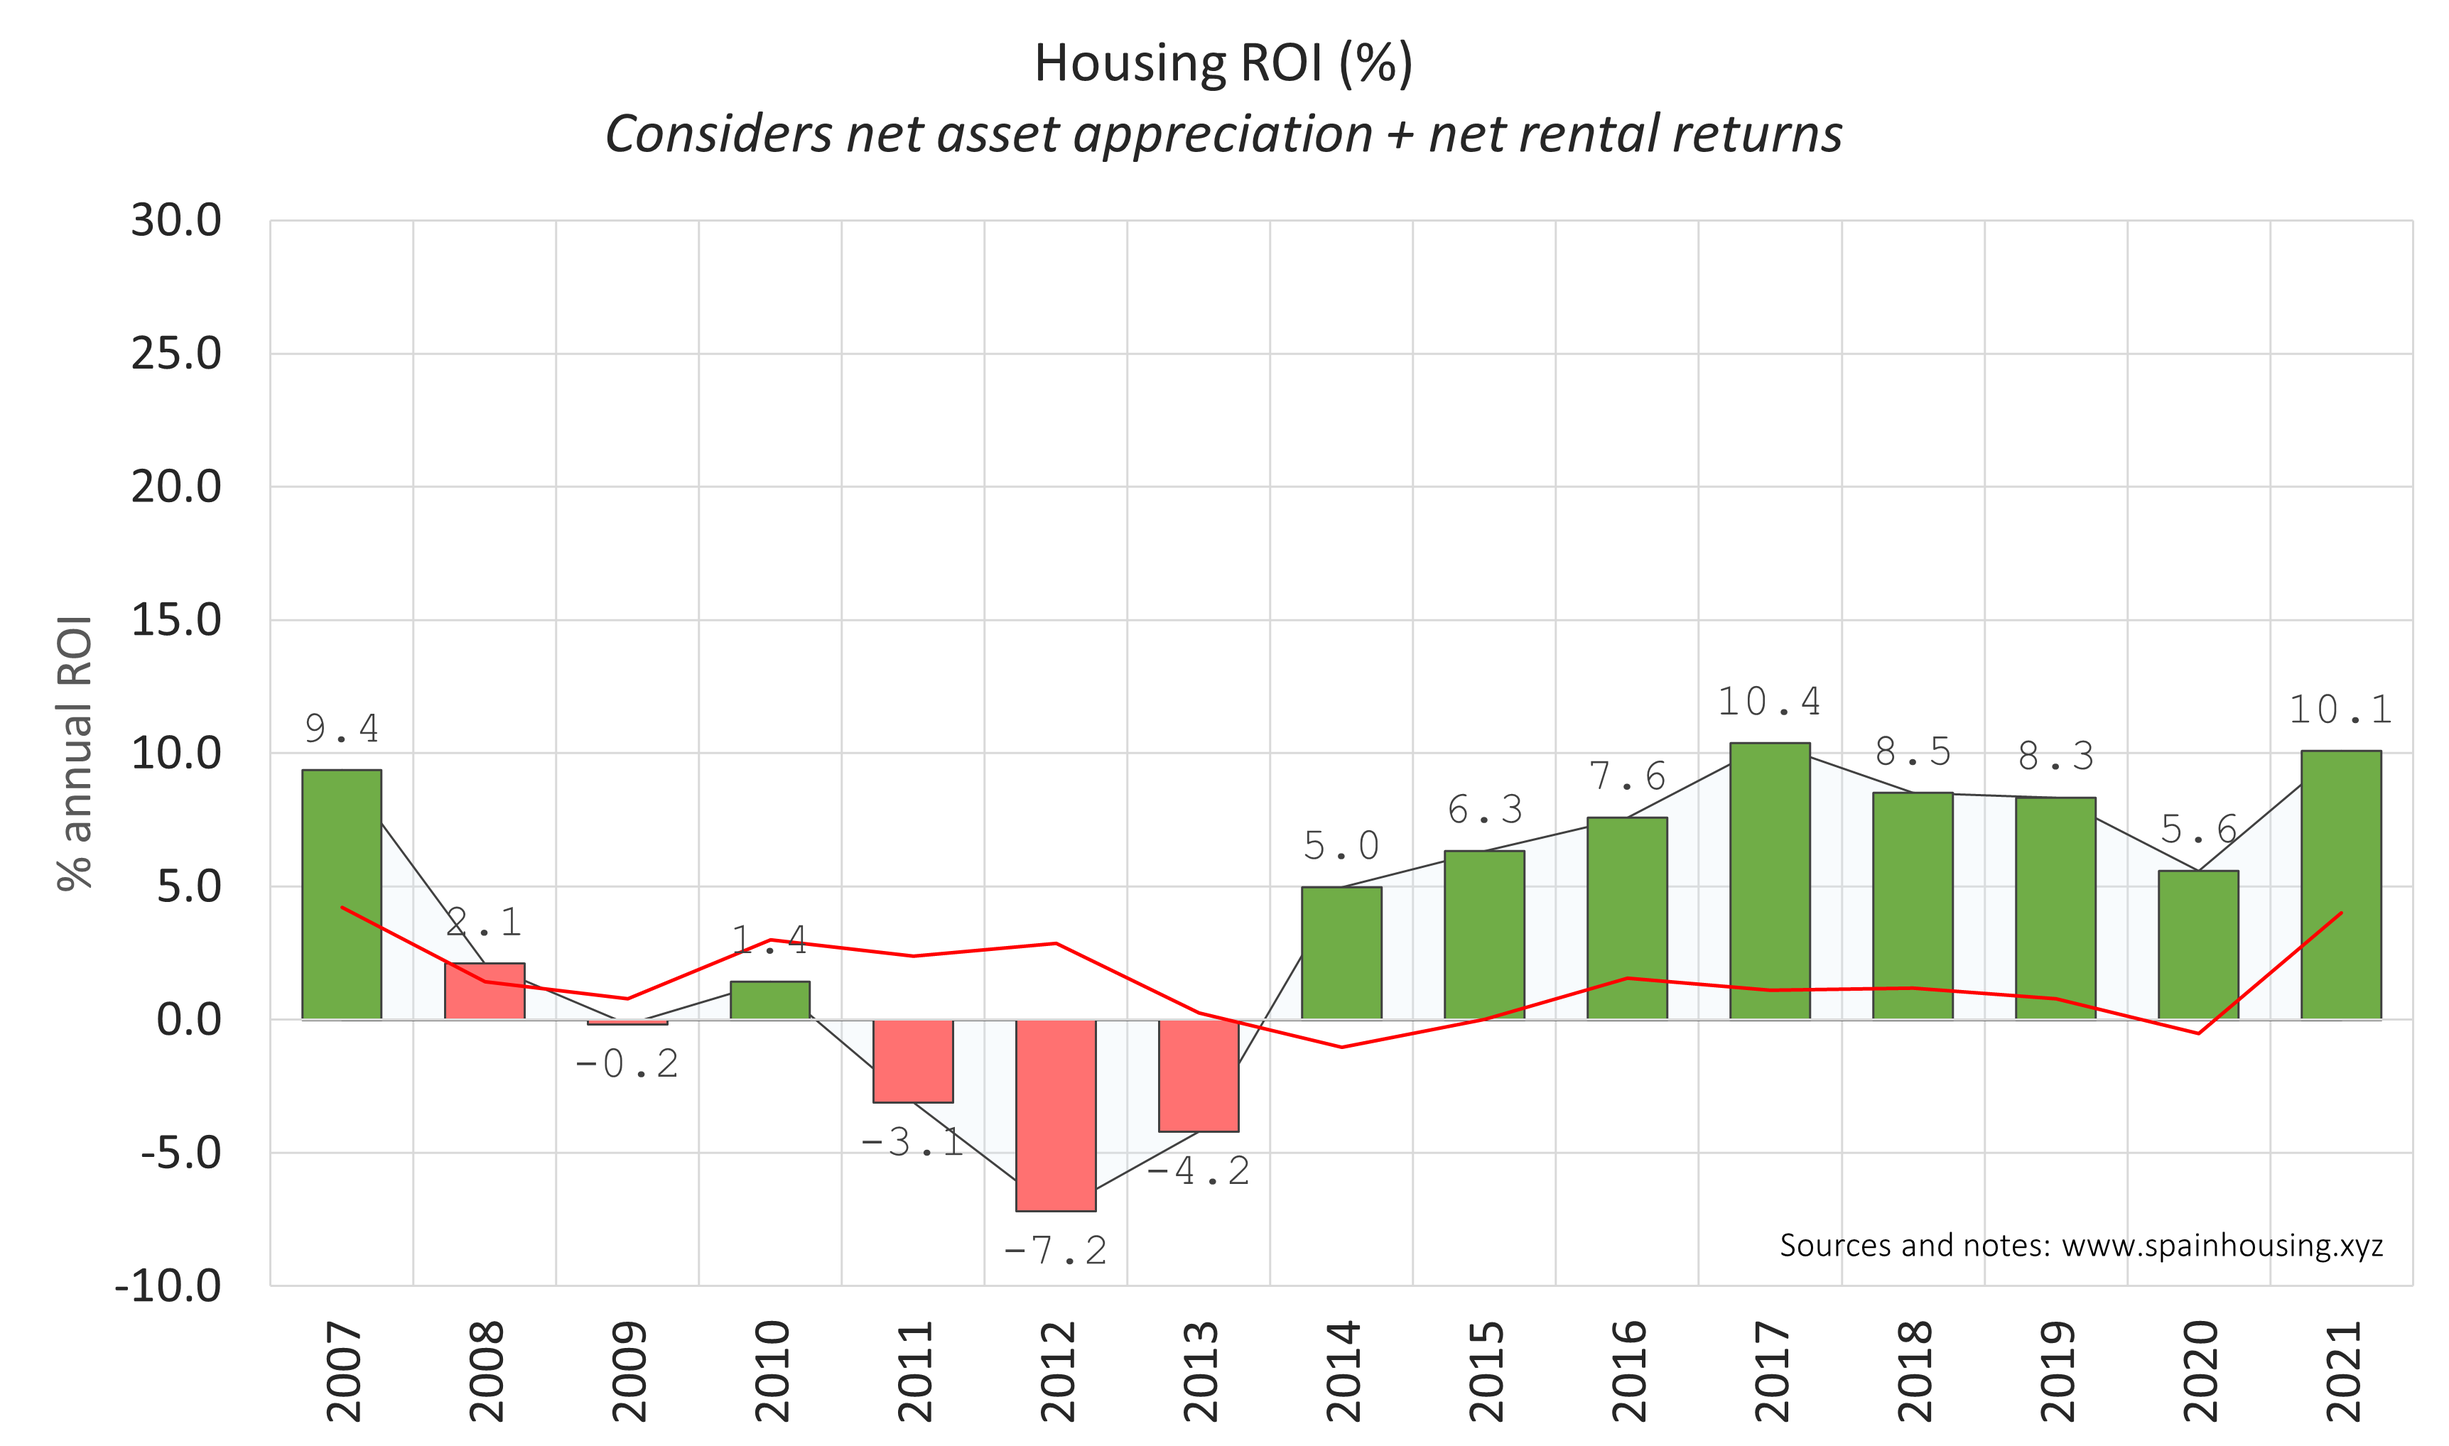
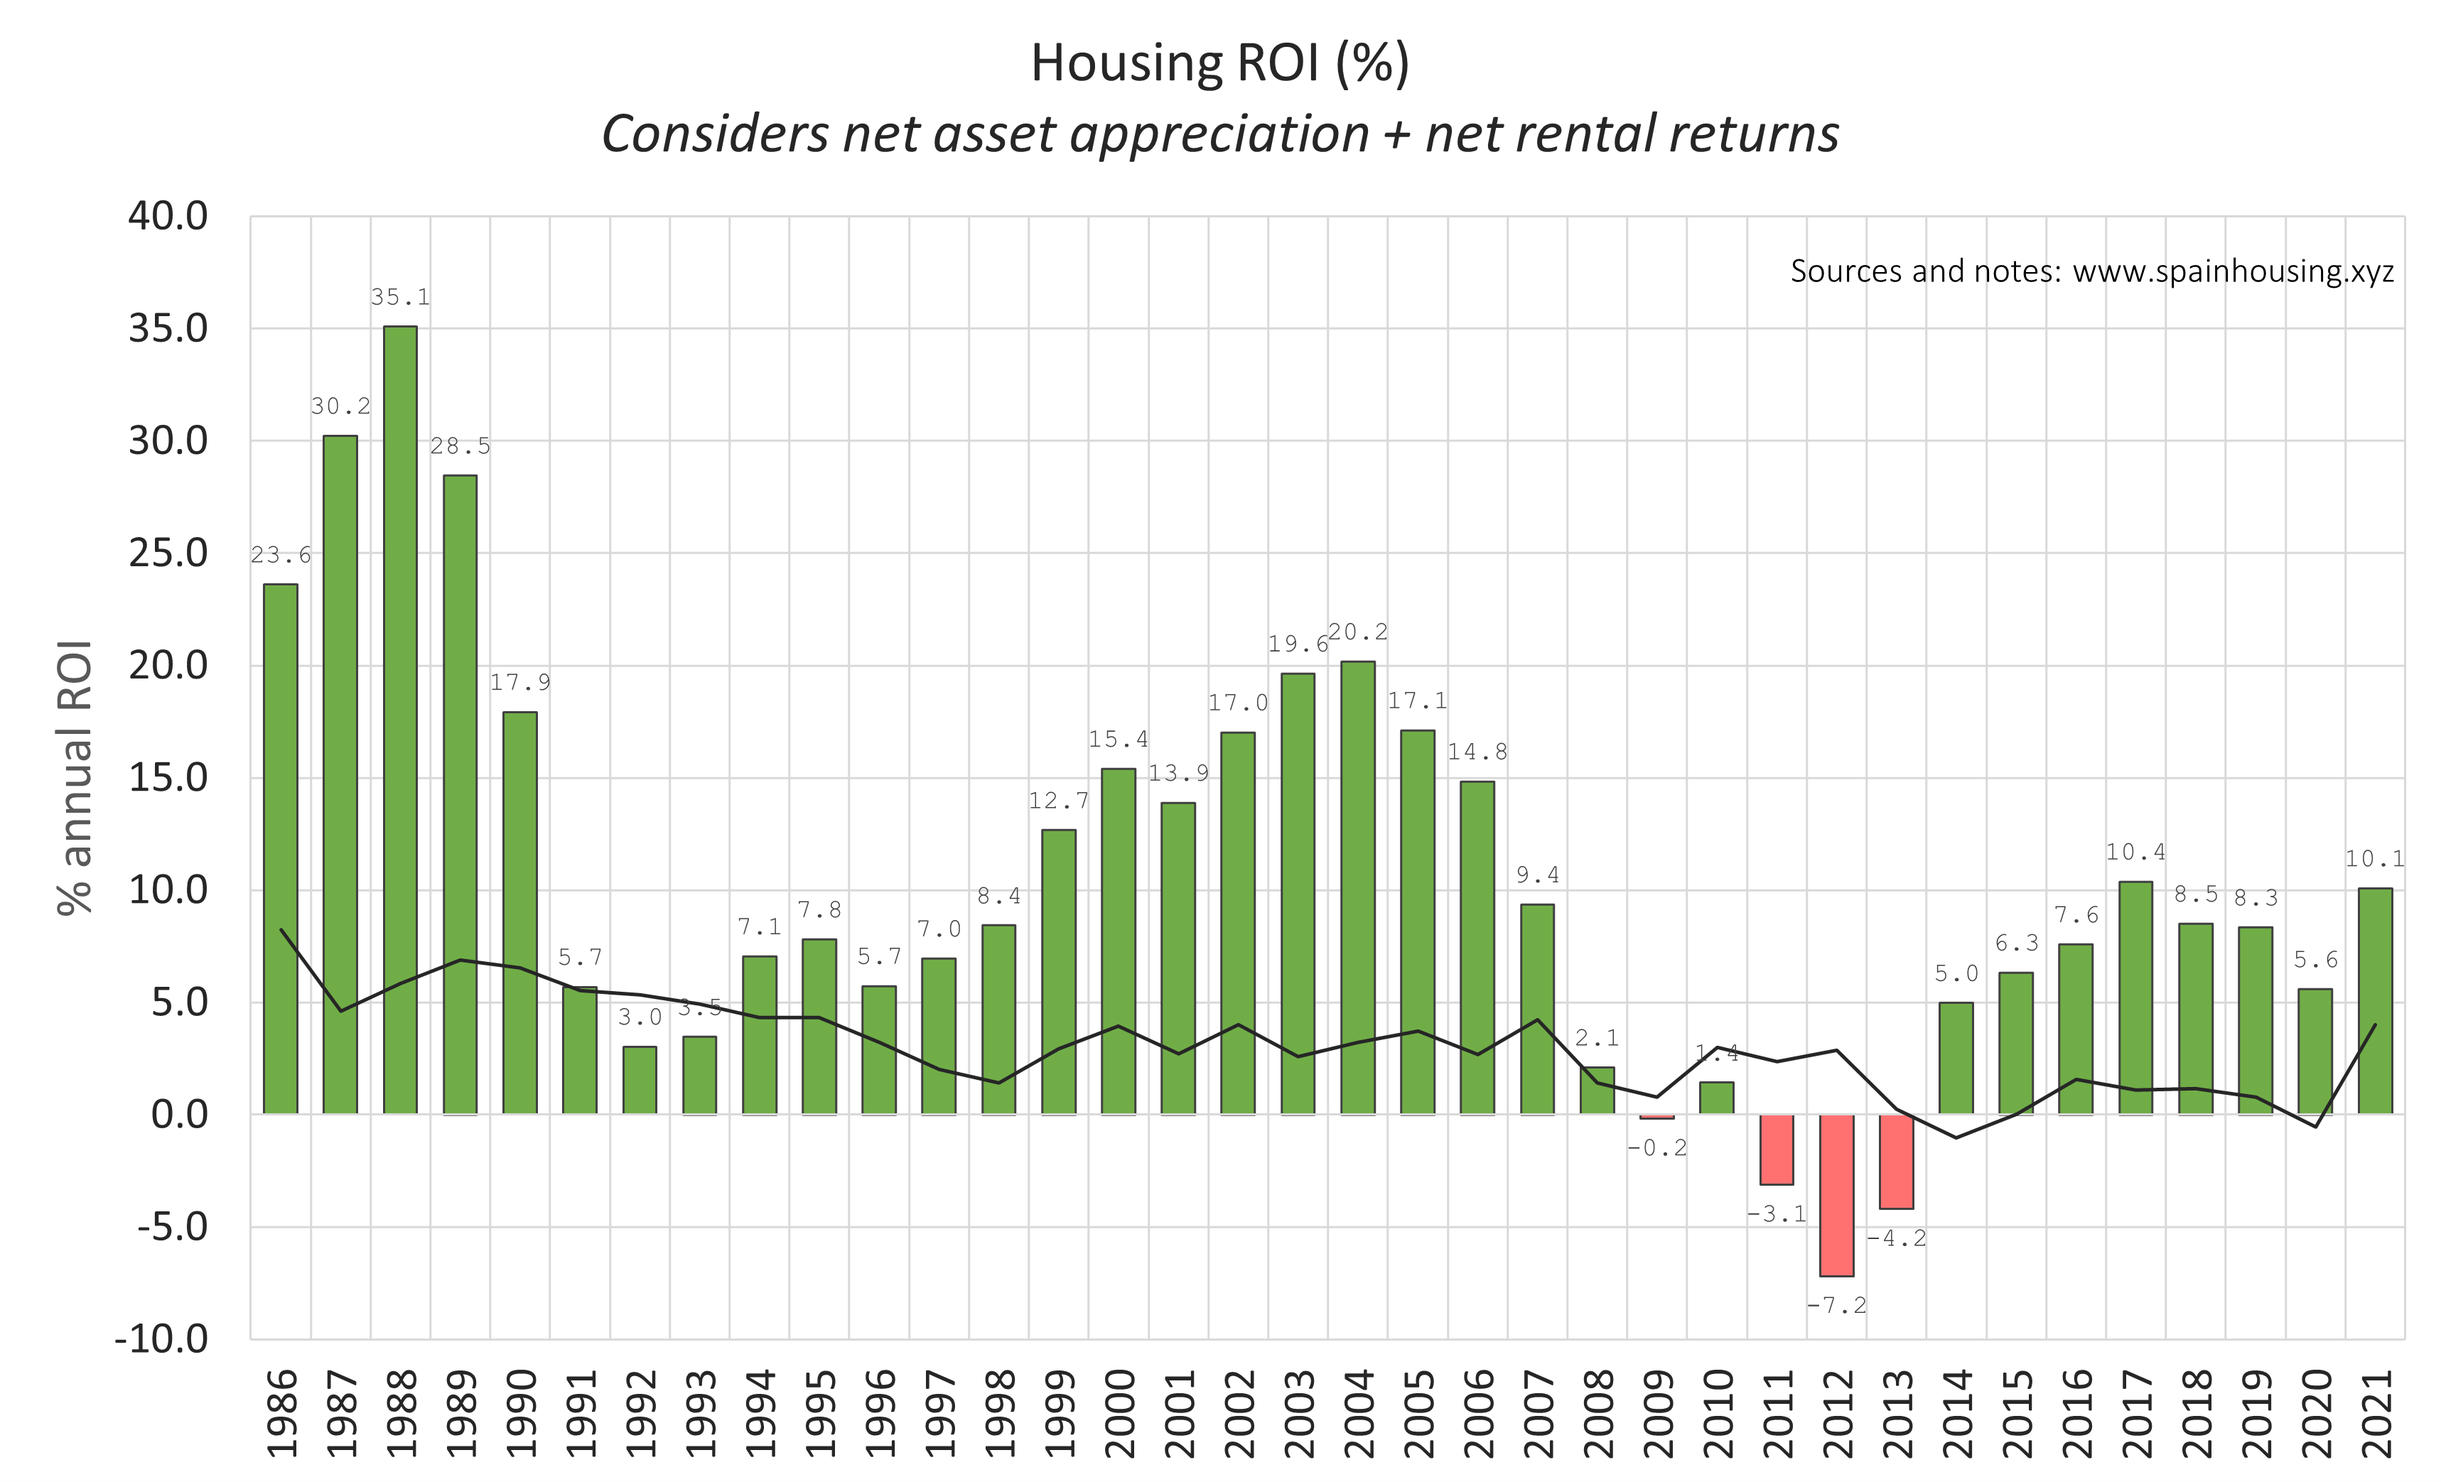
update

diff --git a/pages/posts/appreciation.md b/pages/posts/appreciation.md
@@ -17,7 +17,7 @@ import Image from 'next/image'
 
 ![Reload chart](/images/housingroi.png)
 
-- **Housing ROI (%, red line = inflation)**: final return on investment, considering both net rental return and net asset appreciation.
+- **Housing ROI (%, black line = inflation)**: final return on investment, considering both net rental return and net asset appreciation.
 
 # Interpretation and observations
 
